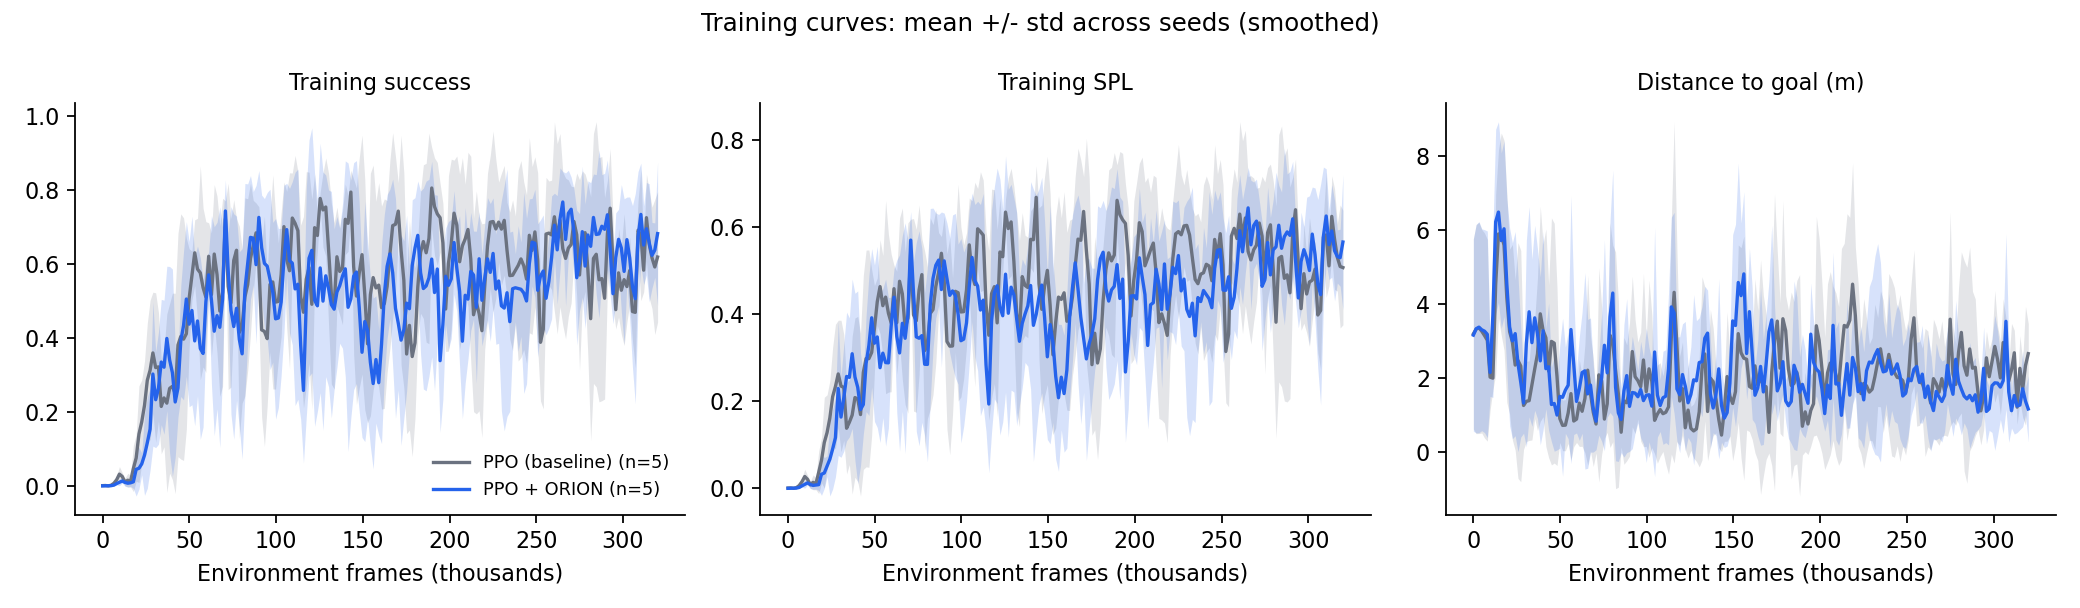
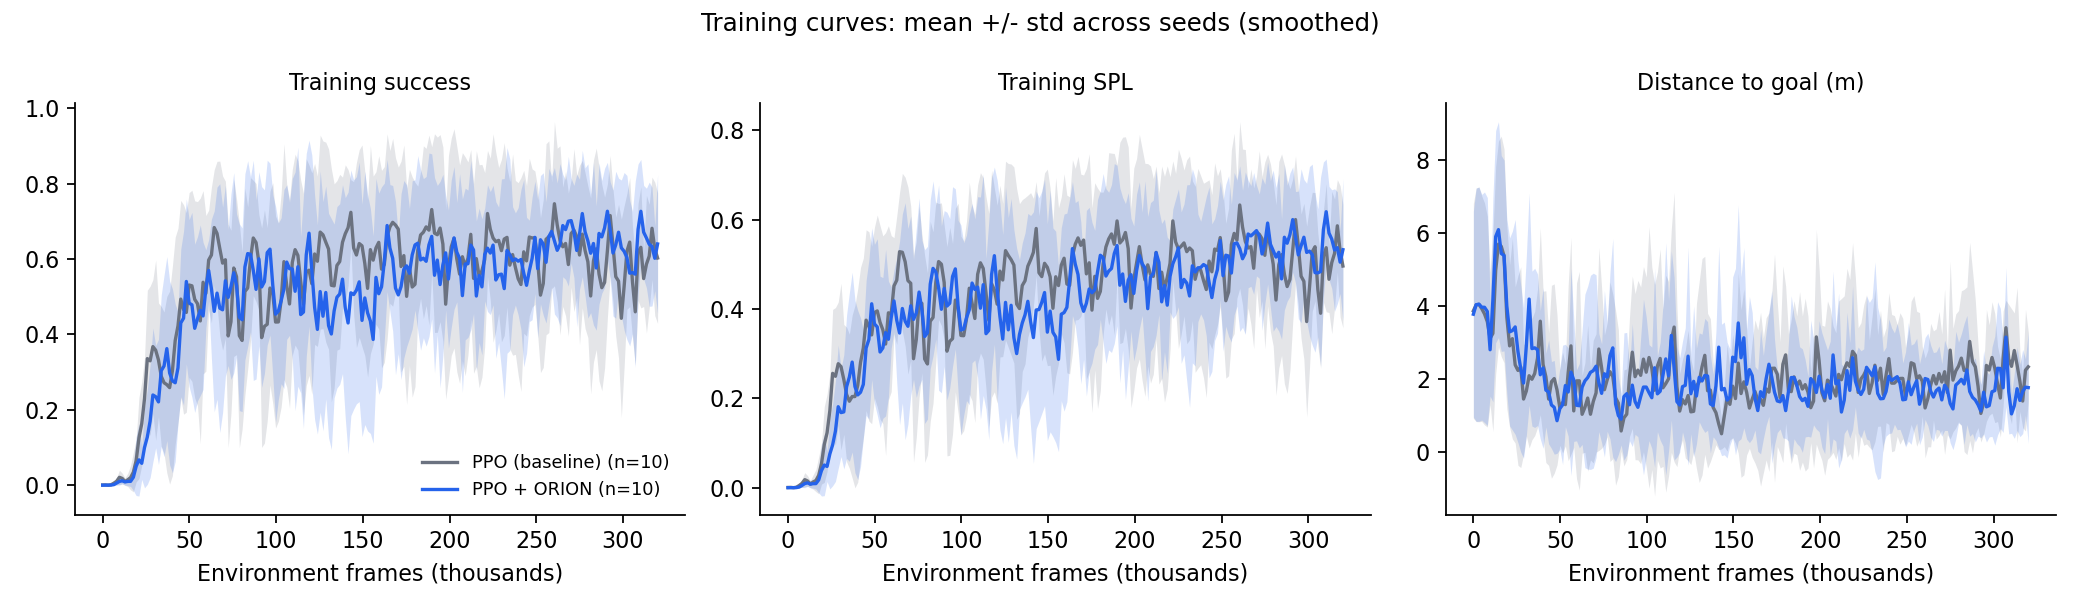
ORION: final 10-seed results

diff --git a/results/summary.md b/results/summary.md
@@ -1,31 +1,41 @@
 # ORION results (held-out val split)
 
-Seeds: PPO = 5, ORION = 5. Mean +/- std across seeds.
+Seeds: PPO = 10, ORION = 10. Mean +/- std across seeds.
 
 | Method | Success (higher better) | SPL (higher better) | Distance to goal (m) (lower better) |
 |---|---|---|---|
-| PPO (baseline) | 0.574 +/- 0.307 | 0.495 +/- 0.260 | 1.216 +/- 0.614 |
-| PPO + ORION | 0.646 +/- 0.152 | 0.548 +/- 0.138 | 0.629 +/- 0.125 |
+| PPO (baseline) | 0.619 +/- 0.240 | 0.519 +/- 0.198 | 1.056 +/- 0.457 |
+| PPO + ORION | 0.635 +/- 0.171 | 0.526 +/- 0.150 | 0.643 +/- 0.163 |
 
 ## Welch t-test (ORION vs PPO)
 
 | Metric | Diff in mean | t | df | p |
 |---|---|---|---|---|
-| Success | +0.072 | 0.47 | 5.8 | 0.656 |
-| SPL | +0.053 | 0.40 | 6.1 | 0.699 |
-| Distance to goal (m) | -0.587 | -2.10 | 4.3 | 0.099 |
+| Success | +0.016 | 0.17 | 16.2 | 0.866 |
+| SPL | +0.007 | 0.09 | 16.8 | 0.932 |
+| Distance to goal (m) | -0.413 | -2.69 | 11.2 | 0.021 |
 
 ## Per-run values
 
 | Run | Success | SPL | Distance to goal (m) |
 |---|---|---|---|
 | ppo_s1 | 0.7500 | 0.6221 | 1.2789 |
+| ppo_s10 | 0.6900 | 0.5911 | 0.7630 |
 | ppo_s2 | 0.1600 | 0.1374 | 1.7869 |
 | ppo_s3 | 0.3300 | 0.3029 | 1.8143 |
 | ppo_s4 | 0.8200 | 0.6956 | 0.4305 |
 | ppo_s5 | 0.8100 | 0.7158 | 0.7677 |
+| ppo_s6 | 0.7200 | 0.6271 | 1.0523 |
+| ppo_s7 | 0.3600 | 0.2987 | 1.0428 |
+| ppo_s8 | 0.7600 | 0.5588 | 0.6644 |
+| ppo_s9 | 0.7900 | 0.6403 | 0.9637 |
 | orion_s1 | 0.5800 | 0.4556 | 0.5720 |
+| orion_s10 | 0.8300 | 0.6650 | 0.5602 |
 | orion_s2 | 0.4700 | 0.4293 | 0.6655 |
 | orion_s3 | 0.7900 | 0.6831 | 0.4752 |
 | orion_s4 | 0.5700 | 0.4586 | 0.8141 |
 | orion_s5 | 0.8200 | 0.7136 | 0.6167 |
+| orion_s6 | 0.8600 | 0.7133 | 0.5299 |
+| orion_s7 | 0.4400 | 0.3468 | 0.6975 |
+| orion_s8 | 0.4500 | 0.3527 | 1.0042 |
+| orion_s9 | 0.5400 | 0.4401 | 0.4975 |
